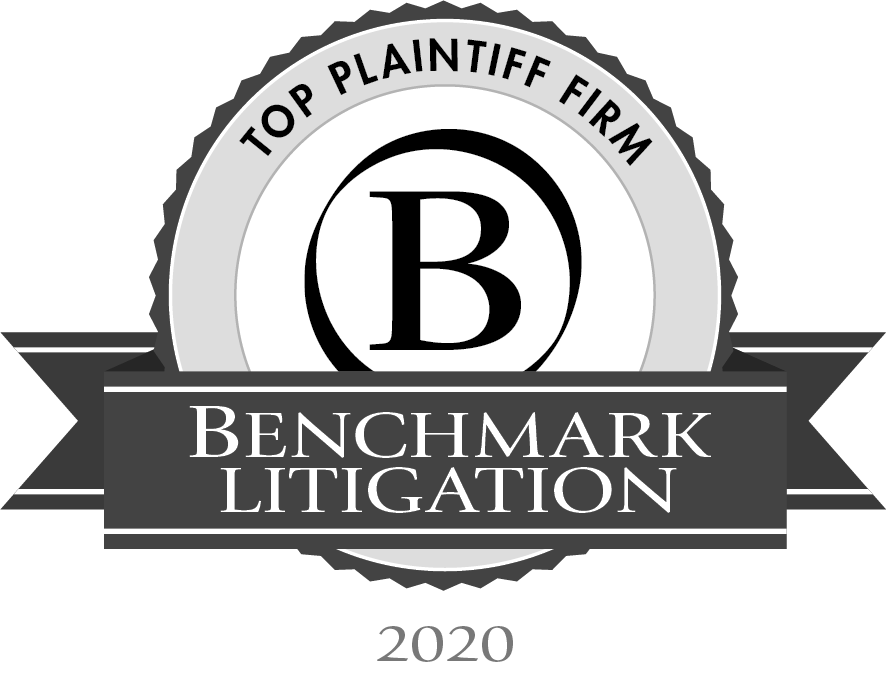
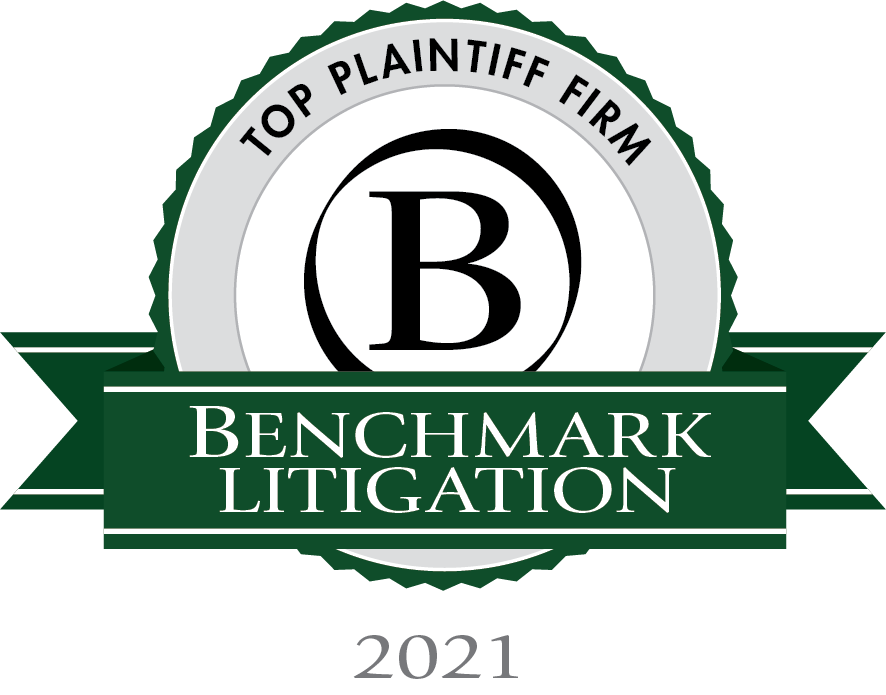
updated awards to be color

diff --git a/awardsachievements.html b/awardsachievements.html
@@ -209,11 +209,13 @@
         <ul id="clients-list" class="clearfix">
           <li><img src="assets/images/achievements/L500.png" alt="Legal500 logo"></li>
           <li><img src="assets/images/achievements/BTI.jpg" alt="BTI Consulting logo"></li>
-          <li><img src="assets/images/achievements/lawdragon.png" alt="LawDragon logo"></li>
+          <li><img src="assets/images/achievements/lawdragon.jpg" alt="LawDragon logo"></li>
           <li><img src="assets/images/achievements/LegalIntelligencer.jpg" alt="Legal Intelligencer logo"></li>
+          <li><img src="assets/images/achievements/LIdept.png" alt="Legal Intelligencer Dept of year logo"></li>
+          <li><img src="assets/images/achievements/tier-1.png" alt="Benchmark Litigation Tier1 logo"></li>
           <li><img src="assets/images/achievements/BL-Highly-rec.png" alt="Benchmark Litigation HR logo"></li>
           <li><img src="assets/images/achievements/BL-Top-Plaintiff.png" alt="Benchmark Litigation TP logo"></li>
-          <li><img src="assets/images/achievements/PHL.jpg" alt="Plaintiffs Hot List logo"></li>
+          <!-- <li><img src="assets/images/achievements/PHL.jpg" alt="Plaintiffs Hot List logo"></li> -->
         </ul>
       </div>
     </div>

diff --git a/index.html b/index.html
@@ -270,11 +270,13 @@
         <ul id="clients-list" class="clearfix">
           <li><img src="assets/images/achievements/L500.png" alt="Legal500 logo"></li>
           <li><img src="assets/images/achievements/BTI.jpg" alt="BTI Consulting logo"></li>
-          <li><img src="assets/images/achievements/lawdragon.png" alt="LawDragon logo"></li>
+          <li><img src="assets/images/achievements/lawdragon.jpg" alt="LawDragon logo"></li>
           <li><img src="assets/images/achievements/LegalIntelligencer.jpg" alt="Legal Intelligencer logo"></li>
+          <li><img src="assets/images/achievements/LIdept.png" alt="Legal Intelligencer Dept of year logo"></li>
+          <li><img src="assets/images/achievements/tier-1.png" alt="Benchmark Litigation Tier1 logo"></li>
           <li><img src="assets/images/achievements/BL-Highly-rec.png" alt="Benchmark Litigation HR logo"></li>
           <li><img src="assets/images/achievements/BL-Top-Plaintiff.png" alt="Benchmark Litigation TP logo"></li>
-          <li><img src="assets/images/achievements/PHL.jpg" alt="Plaintiffs Hot List logo"></li>
+          <!-- <li><img src="assets/images/achievements/PHL.jpg" alt="Plaintiffs Hot List logo"></li> -->
         </ul>
       </div>
     </div>
